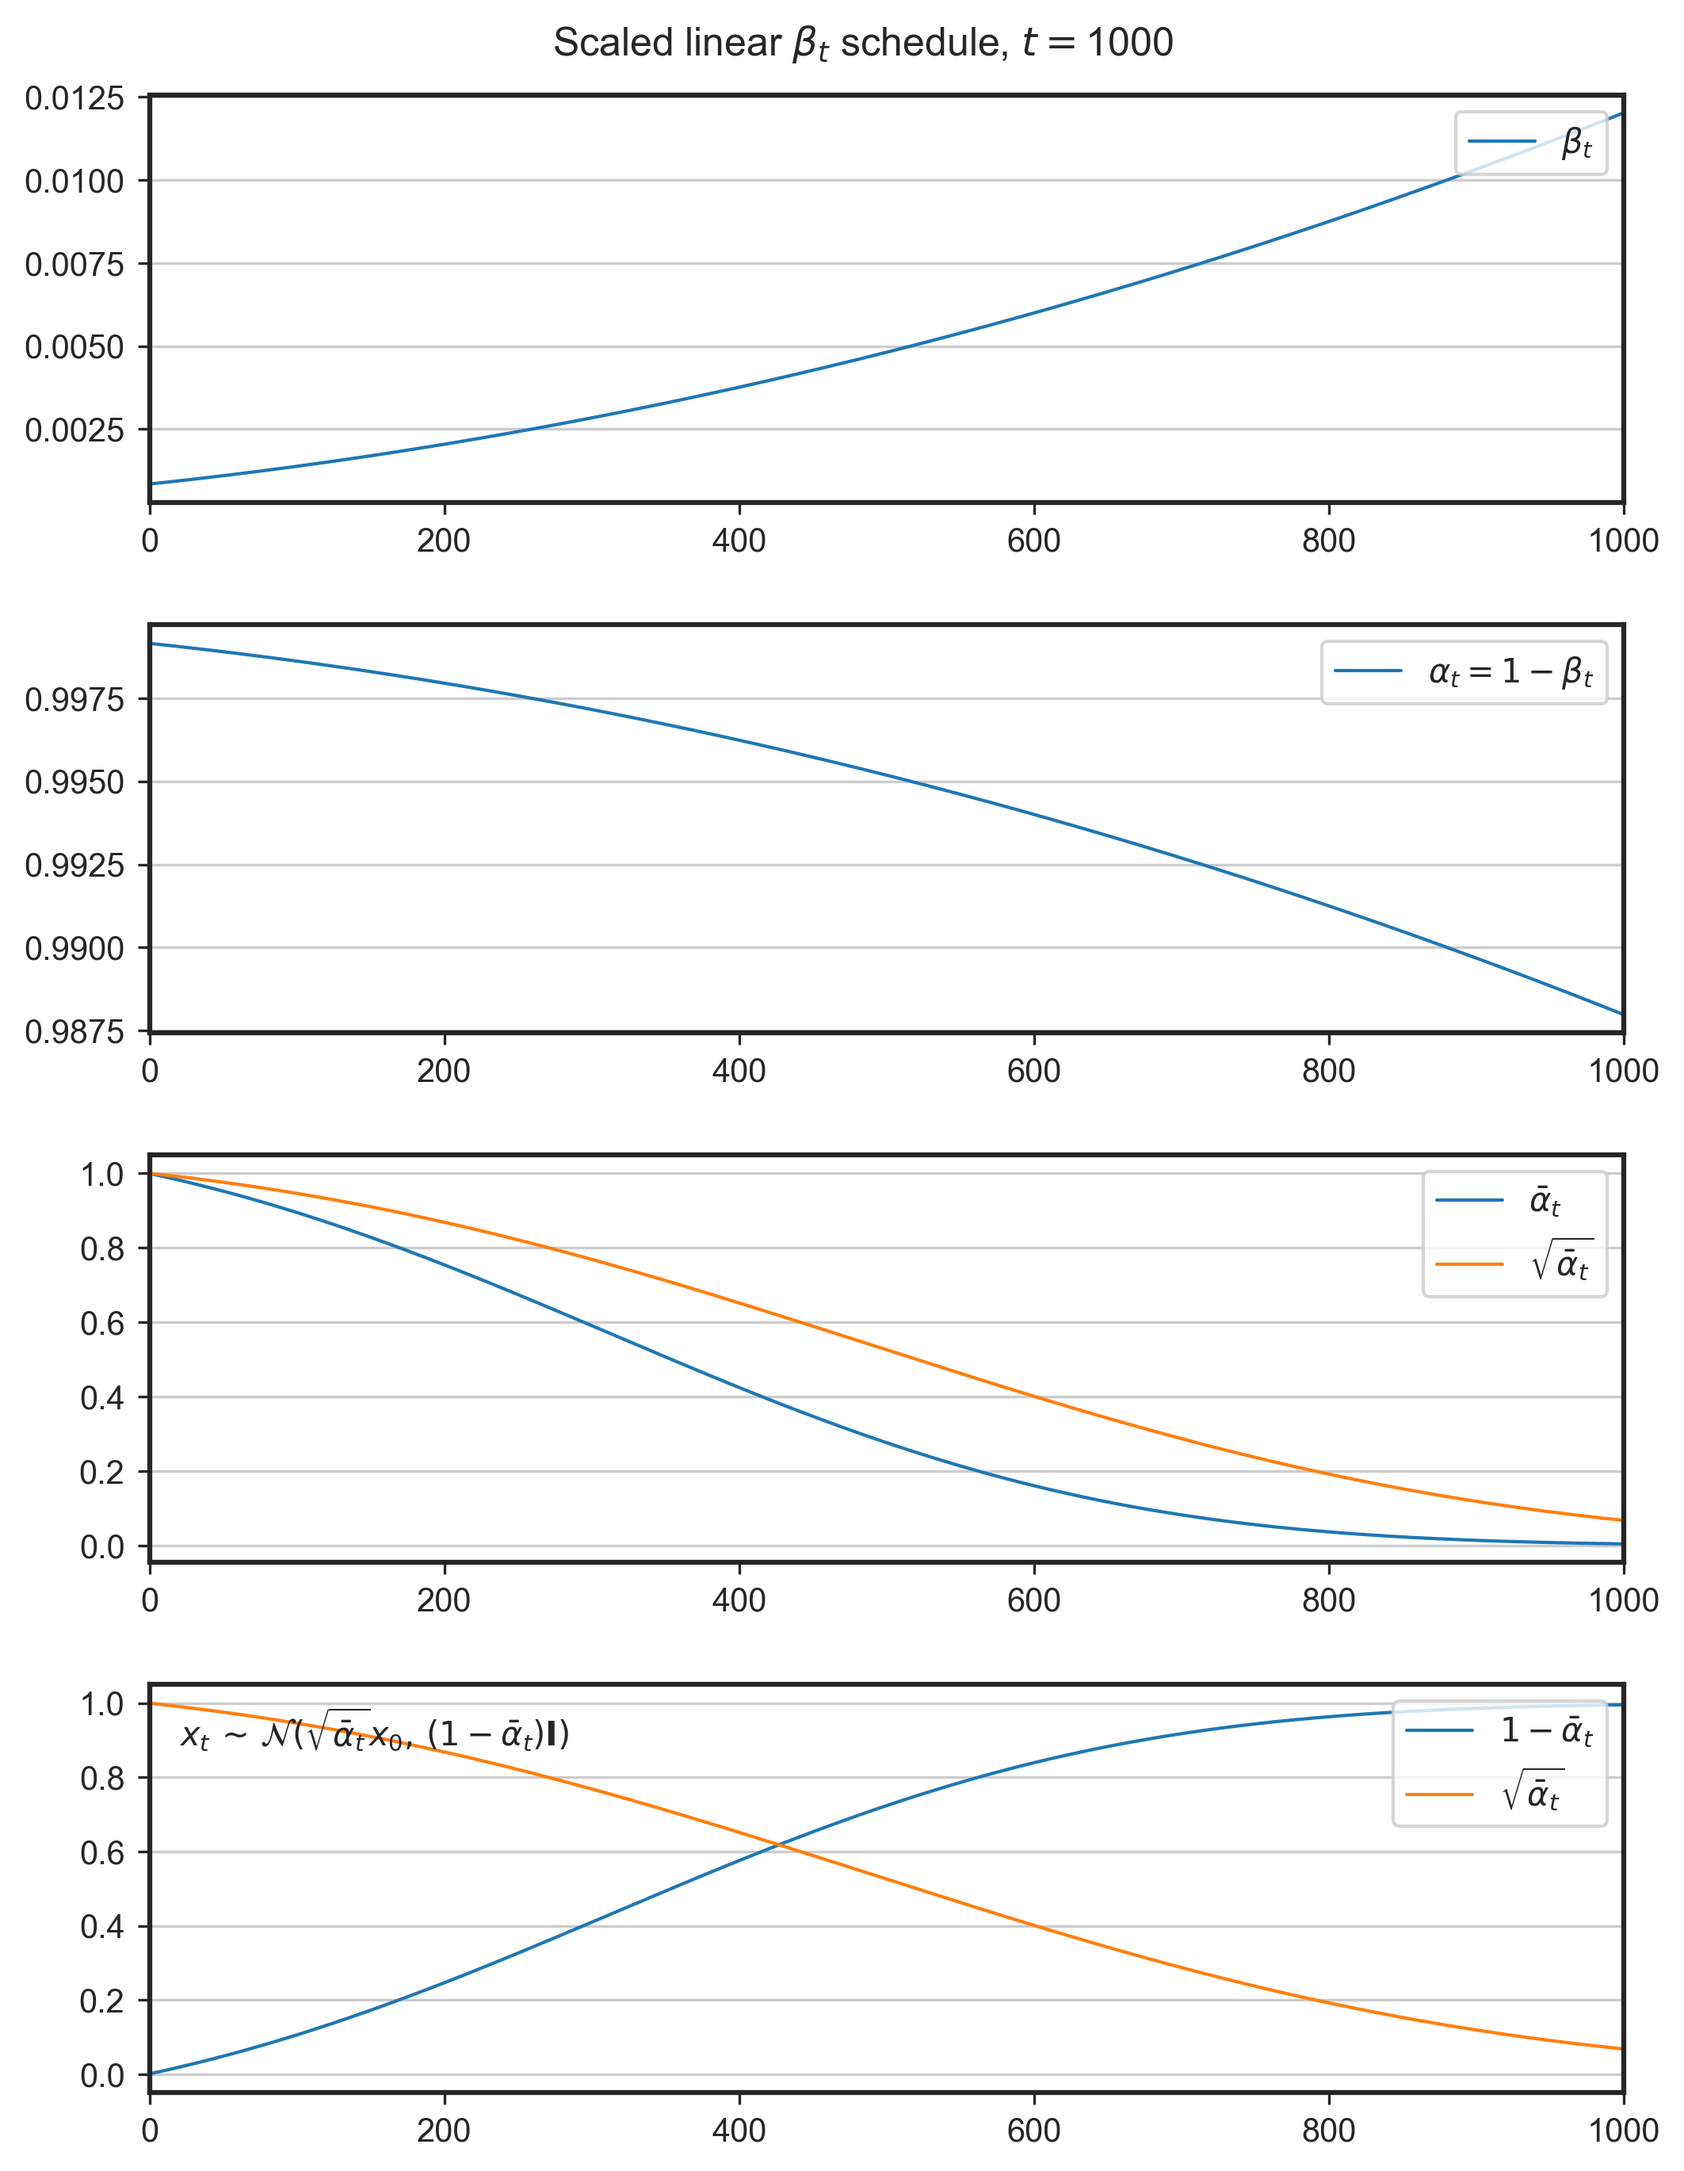
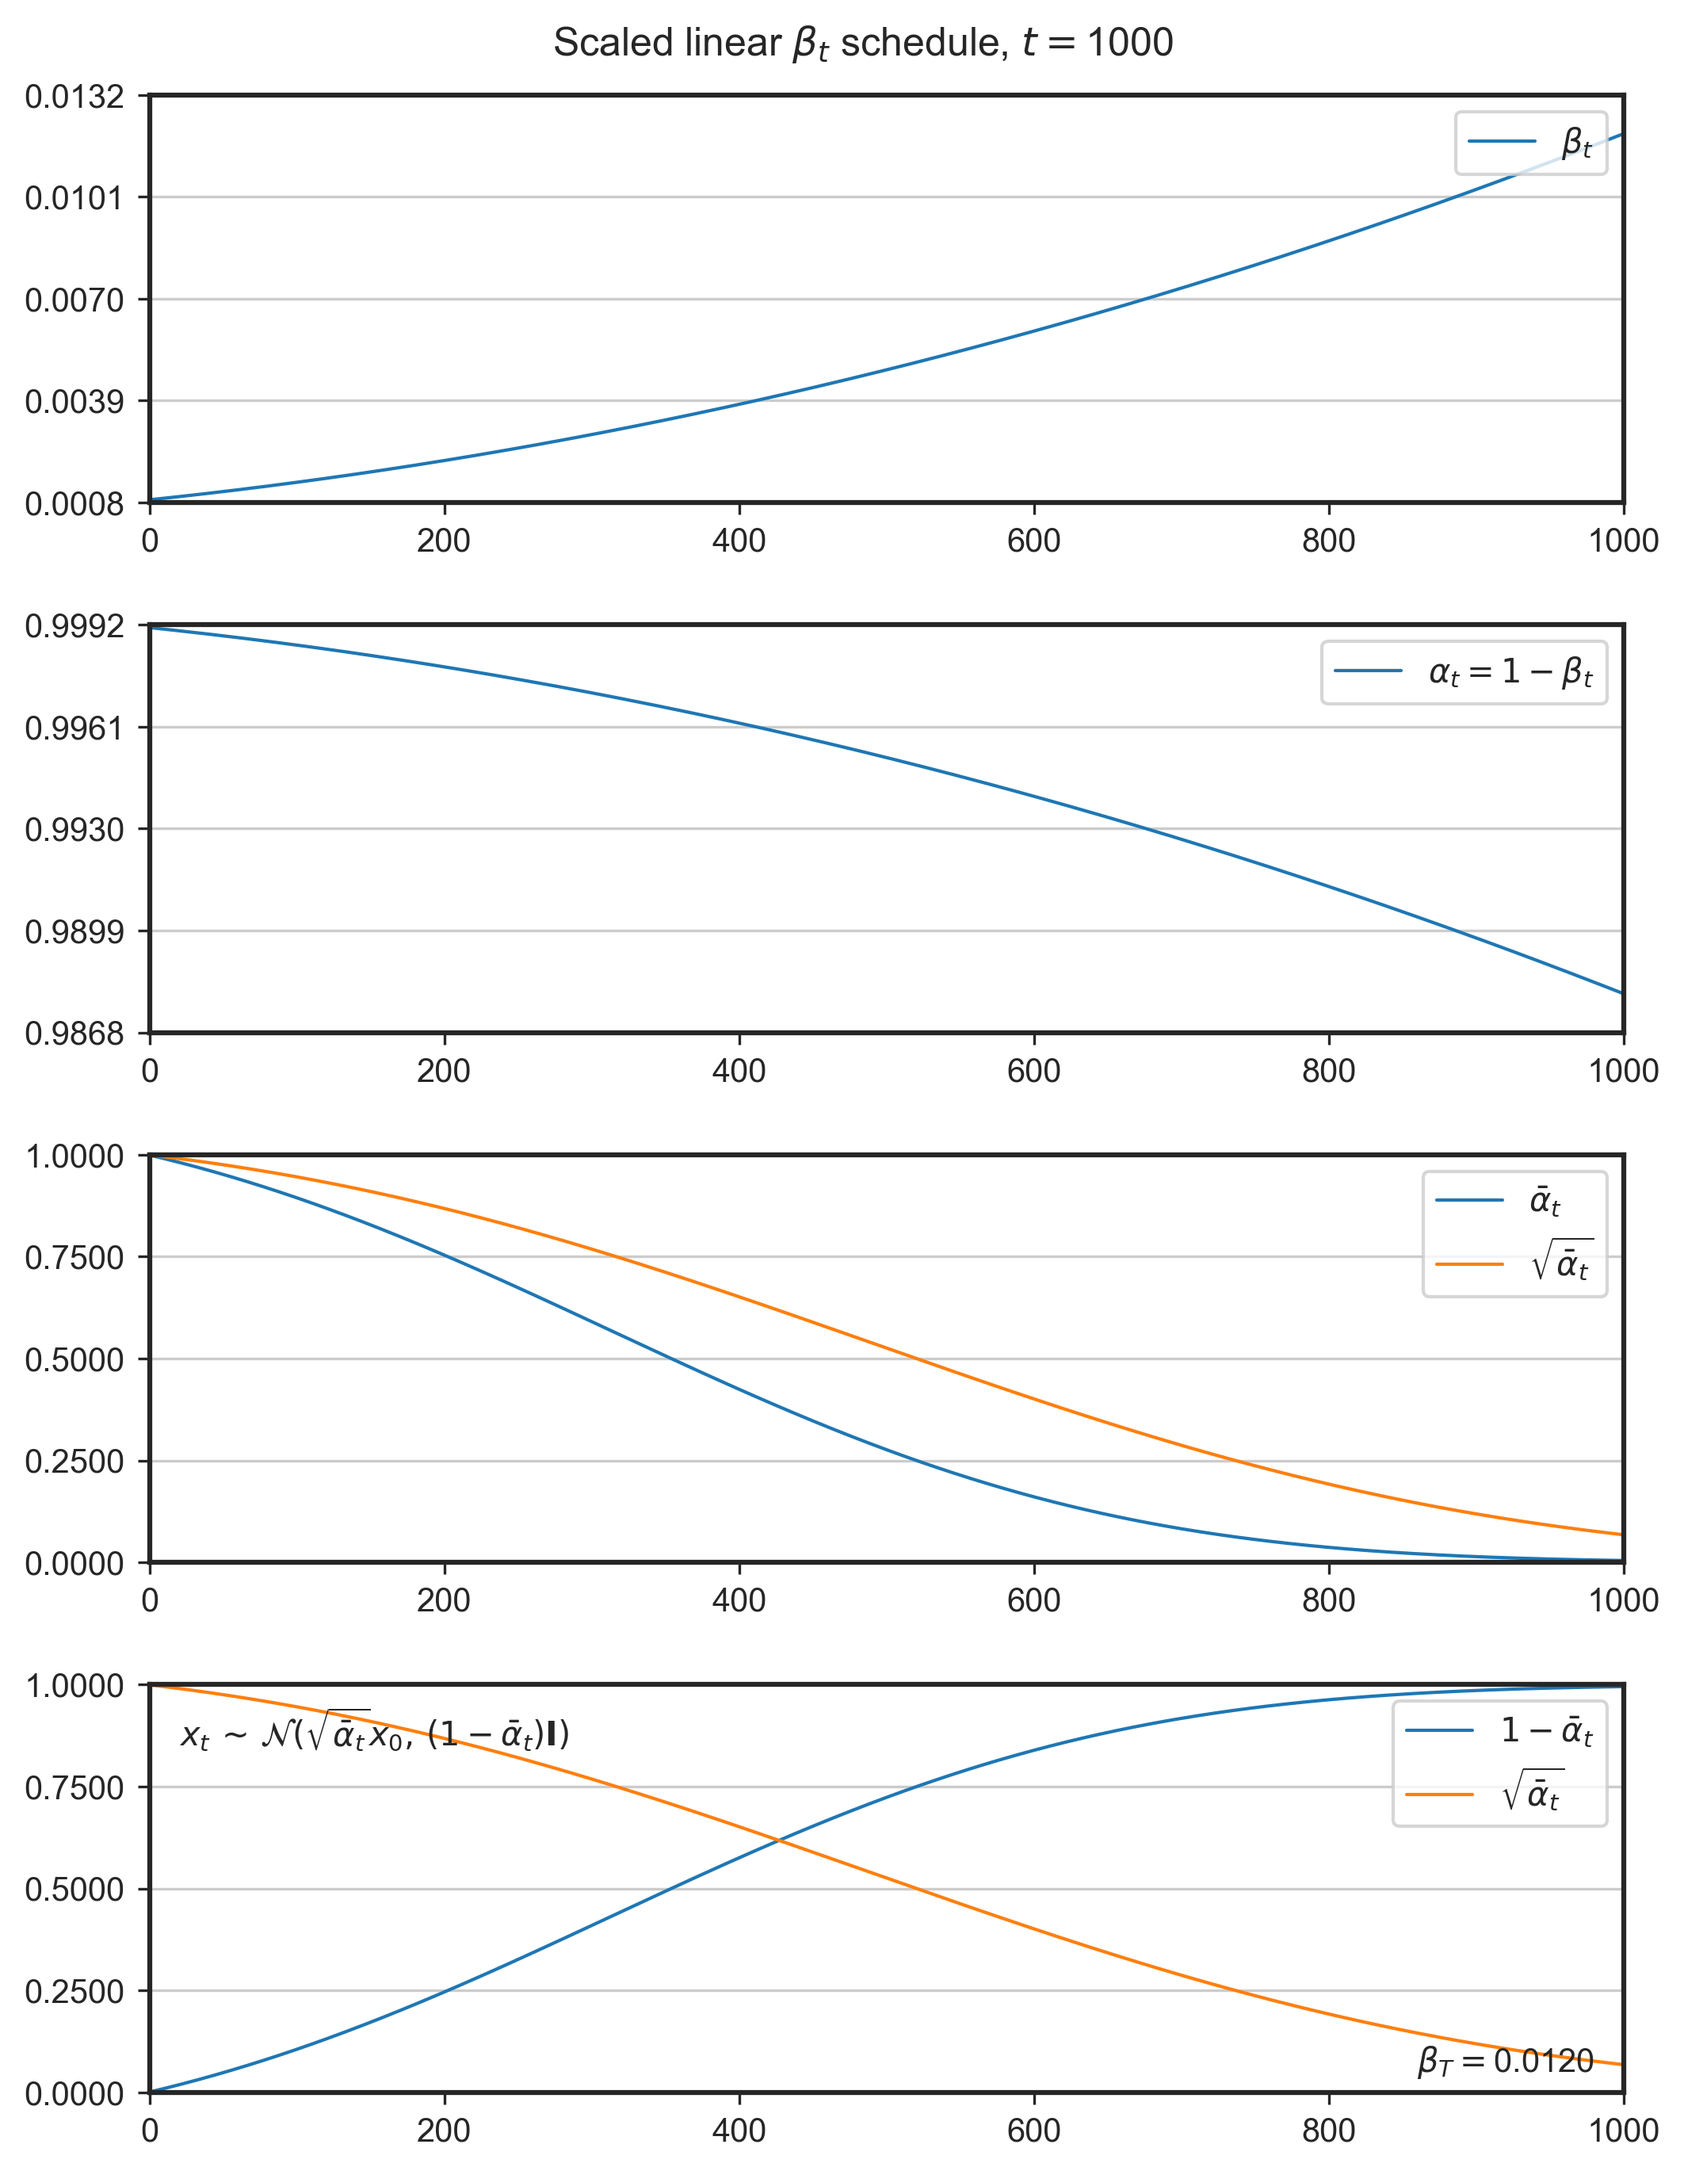
feat: make coefficients GIFs more stable

diff --git a/notebooks/1_4_plot_coefficients.py b/notebooks/1_4_plot_coefficients.py
@@ -18,7 +18,7 @@ PLOT_DIR = Path(__file__).parent.parent / "plots"
 DATA_DIR = Path(__file__).parent.parent / "data"
 
 
-def plot_forward_coefficients(betas: TensorType["T"], ddpm: DDPM, title: str, filename: str):
+def plot_forward_coefficients(betas: TensorType["T"], ddpm: DDPM, title: str, filename: str, β_start: float = 1e-6, β_end: float = 0.015):
     reset_plot_style(xtick_major_pad=4, ytick_major_pad=4, border_width=1.5, label_pad=4, grid_linewidth=0.4)
     num_plots = 4
     num_timesteps = ddpm.num_timesteps
@@ -35,15 +35,27 @@ def plot_forward_coefficients(betas: TensorType["T"], ddpm: DDPM, title: str, fi
         xy=(0.02, 0.85),
         xycoords="axes fraction",
     )
+    ax[3].annotate(
+        r"$\beta_T = $" + f"{betas[-1]:.4f}",
+        xy=(0.86, 0.05),
+        xycoords="axes fraction",
+    )
     for _ax in ax:
         _ax.set_xlim(0, num_timesteps)
         _ax.legend(loc="upper right")
         _ax.grid(axis="x")
+        # Enforce consistent formatting for the y-axis, so we can create smooth GIFs.
+        _ax.yaxis.set_major_locator(plt.LinearLocator(numticks=5))
+        _ax.yaxis.set_major_formatter(lambda x, pos: f"{x:.4f}")
+    ax[0].set_ylim(β_start, β_end)
+    ax[1].set_ylim(1 - β_end, 1 - β_start)
+    ax[2].set_ylim(0, 1)
+    ax[3].set_ylim(0, 1)
     plt.suptitle(title)
     save_plot(PLOT_DIR, filename, create_date_dir=False, bbox_inches="tight")
 
 
-def plot_posterior_coefficients(betas: TensorType["T"], ddpm: DDPM, title: str, filename: str):
+def plot_posterior_coefficients(betas: TensorType["T"], ddpm: DDPM, title: str, filename: str, β_end: float = 0.015):
     reset_plot_style(xtick_major_pad=4, ytick_major_pad=4, border_width=1.5, label_pad=4, grid_linewidth=0.4)
     num_plots = 3
     num_timesteps = ddpm.num_timesteps
@@ -54,6 +66,11 @@ def plot_posterior_coefficients(betas: TensorType["T"], ddpm: DDPM, title: str, 
     ax[0].annotate(
         r"$x_t\, \sim\, \mathcal{N}(\sqrt{\bar{\alpha}_t}x_0,\, (1 - \bar{\alpha}_t)\mathbf{I})$",
         xy=(0.02, 0.85),
+        xycoords="axes fraction",
+    )
+    ax[0].annotate(
+        r"$\beta_T = $" + f"{betas[-1]:.4f}",
+        xy=(0.86, 0.05),
         xycoords="axes fraction",
     )
     ax[1].plot(np.arange(num_timesteps), ddpm.posterior_mean_x_0_coeff, lw=1, label=r"$\bar{\mu}_t,\, x_0$")
@@ -73,6 +90,12 @@ def plot_posterior_coefficients(betas: TensorType["T"], ddpm: DDPM, title: str, 
         _ax.set_xlim(0, num_timesteps)
         _ax.legend(loc="upper right")
         _ax.grid(axis="x")
+        # Enforce consistent formatting for the y-axis, so we can create smooth GIFs.
+        _ax.yaxis.set_major_locator(plt.LinearLocator(numticks=5))
+        _ax.yaxis.set_major_formatter(lambda x, pos: f"{x:.4f}")
+    ax[0].set_ylim(0, 1)
+    ax[1].set_ylim(0, 1)
+    ax[2].set_ylim(0, β_end)
     plt.suptitle(title)
     save_plot(PLOT_DIR, filename, create_date_dir=False, bbox_inches="tight")
 
@@ -95,6 +118,8 @@ if __name__ == "__main__":
         ddpm,
         title="Linear " + r"$\beta_t$" + " schedule, " + r"$t=$" + f"{num_timesteps}",
         filename="1_4_linear_betas.png",
+        β_start=betas[0] * 0.9,
+        β_end=betas[-1] * 1.1,
     )
     # When looking at the posterior process coefficients, i.e. q(x_t-1 | x_t, x_0) ~ N(mu_hat, beta_hat),
     # we see how the variance increases linearly over time,
@@ -110,6 +135,7 @@ if __name__ == "__main__":
         + f"{num_timesteps}, "
         + r"$q(x_{t-1} | x_t, x_0) \sim \mathcal{N}(\bar{\mu}_t,\, \bar{\beta}_t)$",
         filename="1_4_posterior_coefficients_linear_beta.png",
+        β_end=betas[-1] * 1.1,
     )
 
     #%% Do the same thing, but now we use just 100 timesteps.
@@ -125,6 +151,8 @@ if __name__ == "__main__":
         ddpm,
         title="Linear " + r"$\beta_t$" + " schedule, " + r"$t=$" + f"{num_timesteps}",
         filename="1_4_linear_betas_100_steps.png",
+        β_start=betas[0] * 0.9,
+        β_end=betas[-1] * 1.1,
     )
     # Here the coefficients of bar_mu are not quite the same. Proportionally,
     # the estimate of x_0 becomes relevant earlier in the denoising process.
@@ -138,6 +166,7 @@ if __name__ == "__main__":
         + f"{num_timesteps}, "
         + r"$q(x_{t-1} | x_t, x_0) \sim \mathcal{N}(\bar{\mu}_t,\, \bar{\beta}_t)$",
         filename="1_4_posterior_coefficients_linear_beta_100_steps.png",
+        β_end=betas[-1] * 1.1,
     )
 
     #%% LDM and Stable Diffusion use a different beta schedule that decreases noise in a smoother way.
@@ -152,6 +181,8 @@ if __name__ == "__main__":
         ddpm,
         title="Scaled linear " + r"$\beta_t$" + " schedule, " + r"$t=$" + f"{num_timesteps}",
         filename="1_4_scaled_linear_betas.png",
+        β_start=betas[0] * 0.9,
+        β_end=betas[-1] * 1.1,
     )
     plot_posterior_coefficients(
         betas,
@@ -163,6 +194,7 @@ if __name__ == "__main__":
         + f"{num_timesteps}, "
         + r"$q(x_{t-1} | x_t, x_0) \sim \mathcal{N}(\bar{\mu}_t,\, \bar{\beta}_t)$",
         filename="1_4_posterior_coefficients_scaled_linear_betas.png",
+        β_end=betas[-1] * 1.1,
     )
 
     #%% Why do we use those coefficients? Let's see what happens if we try different maximum betas.
